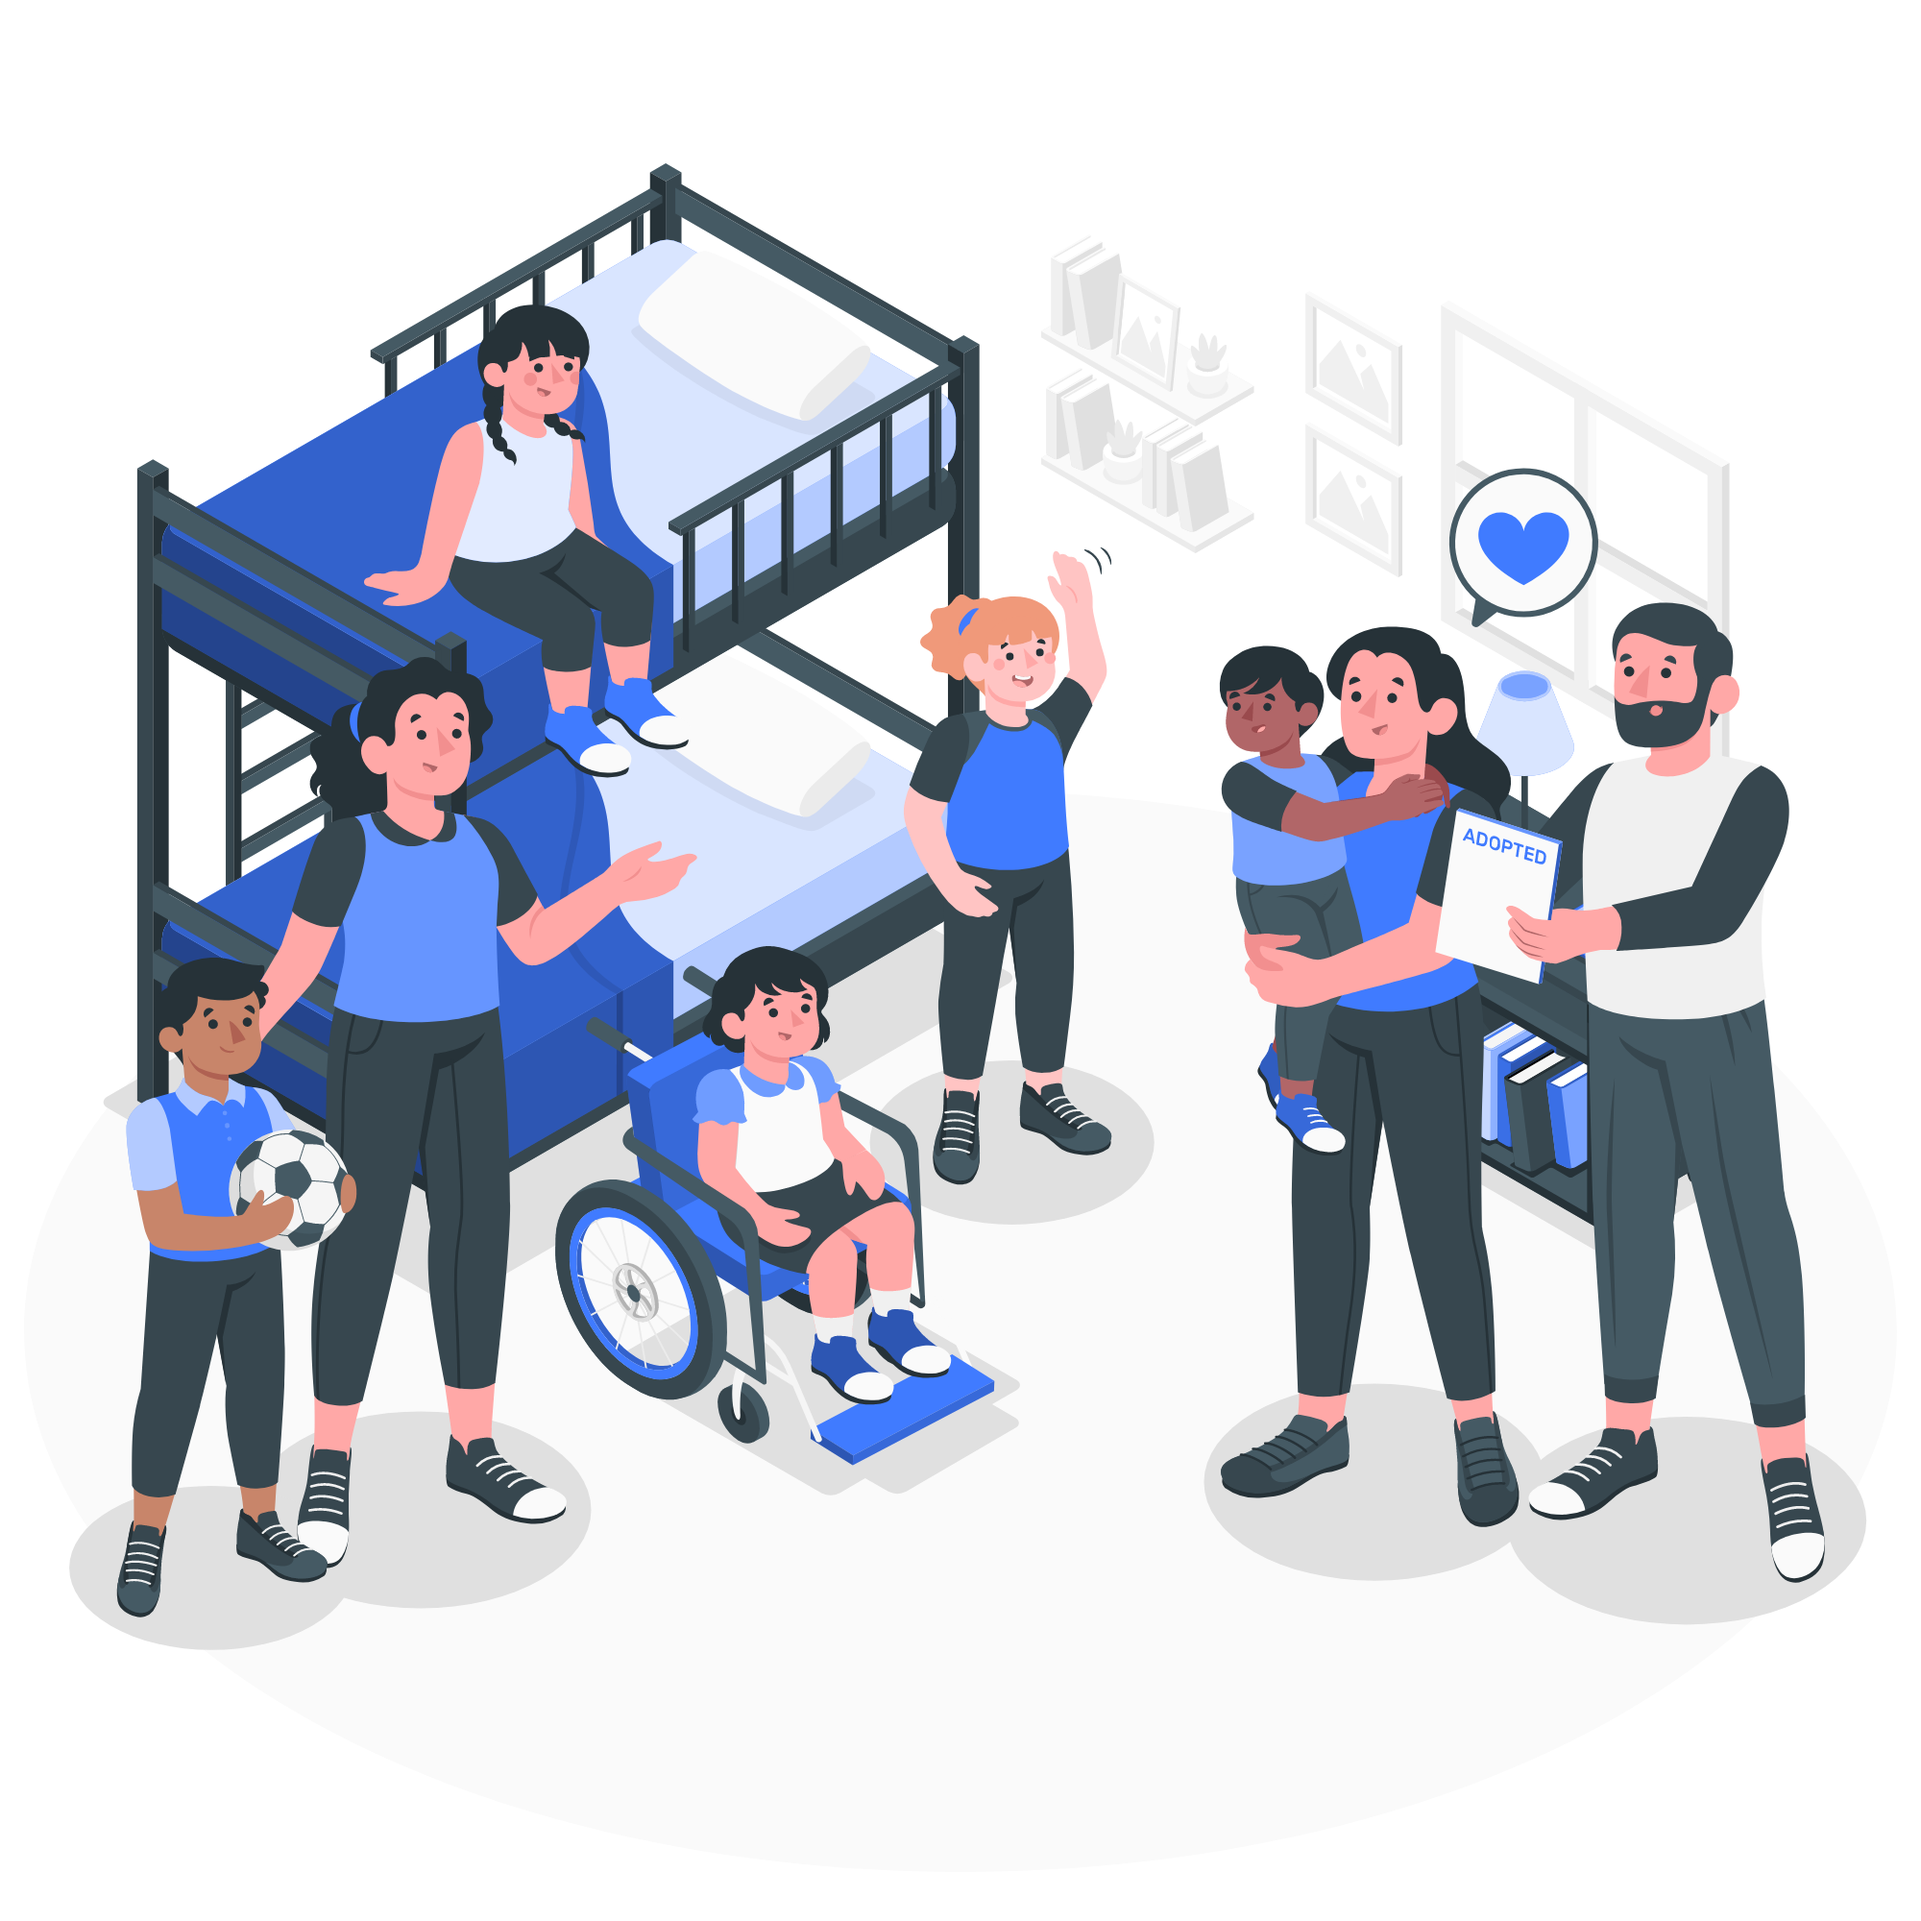
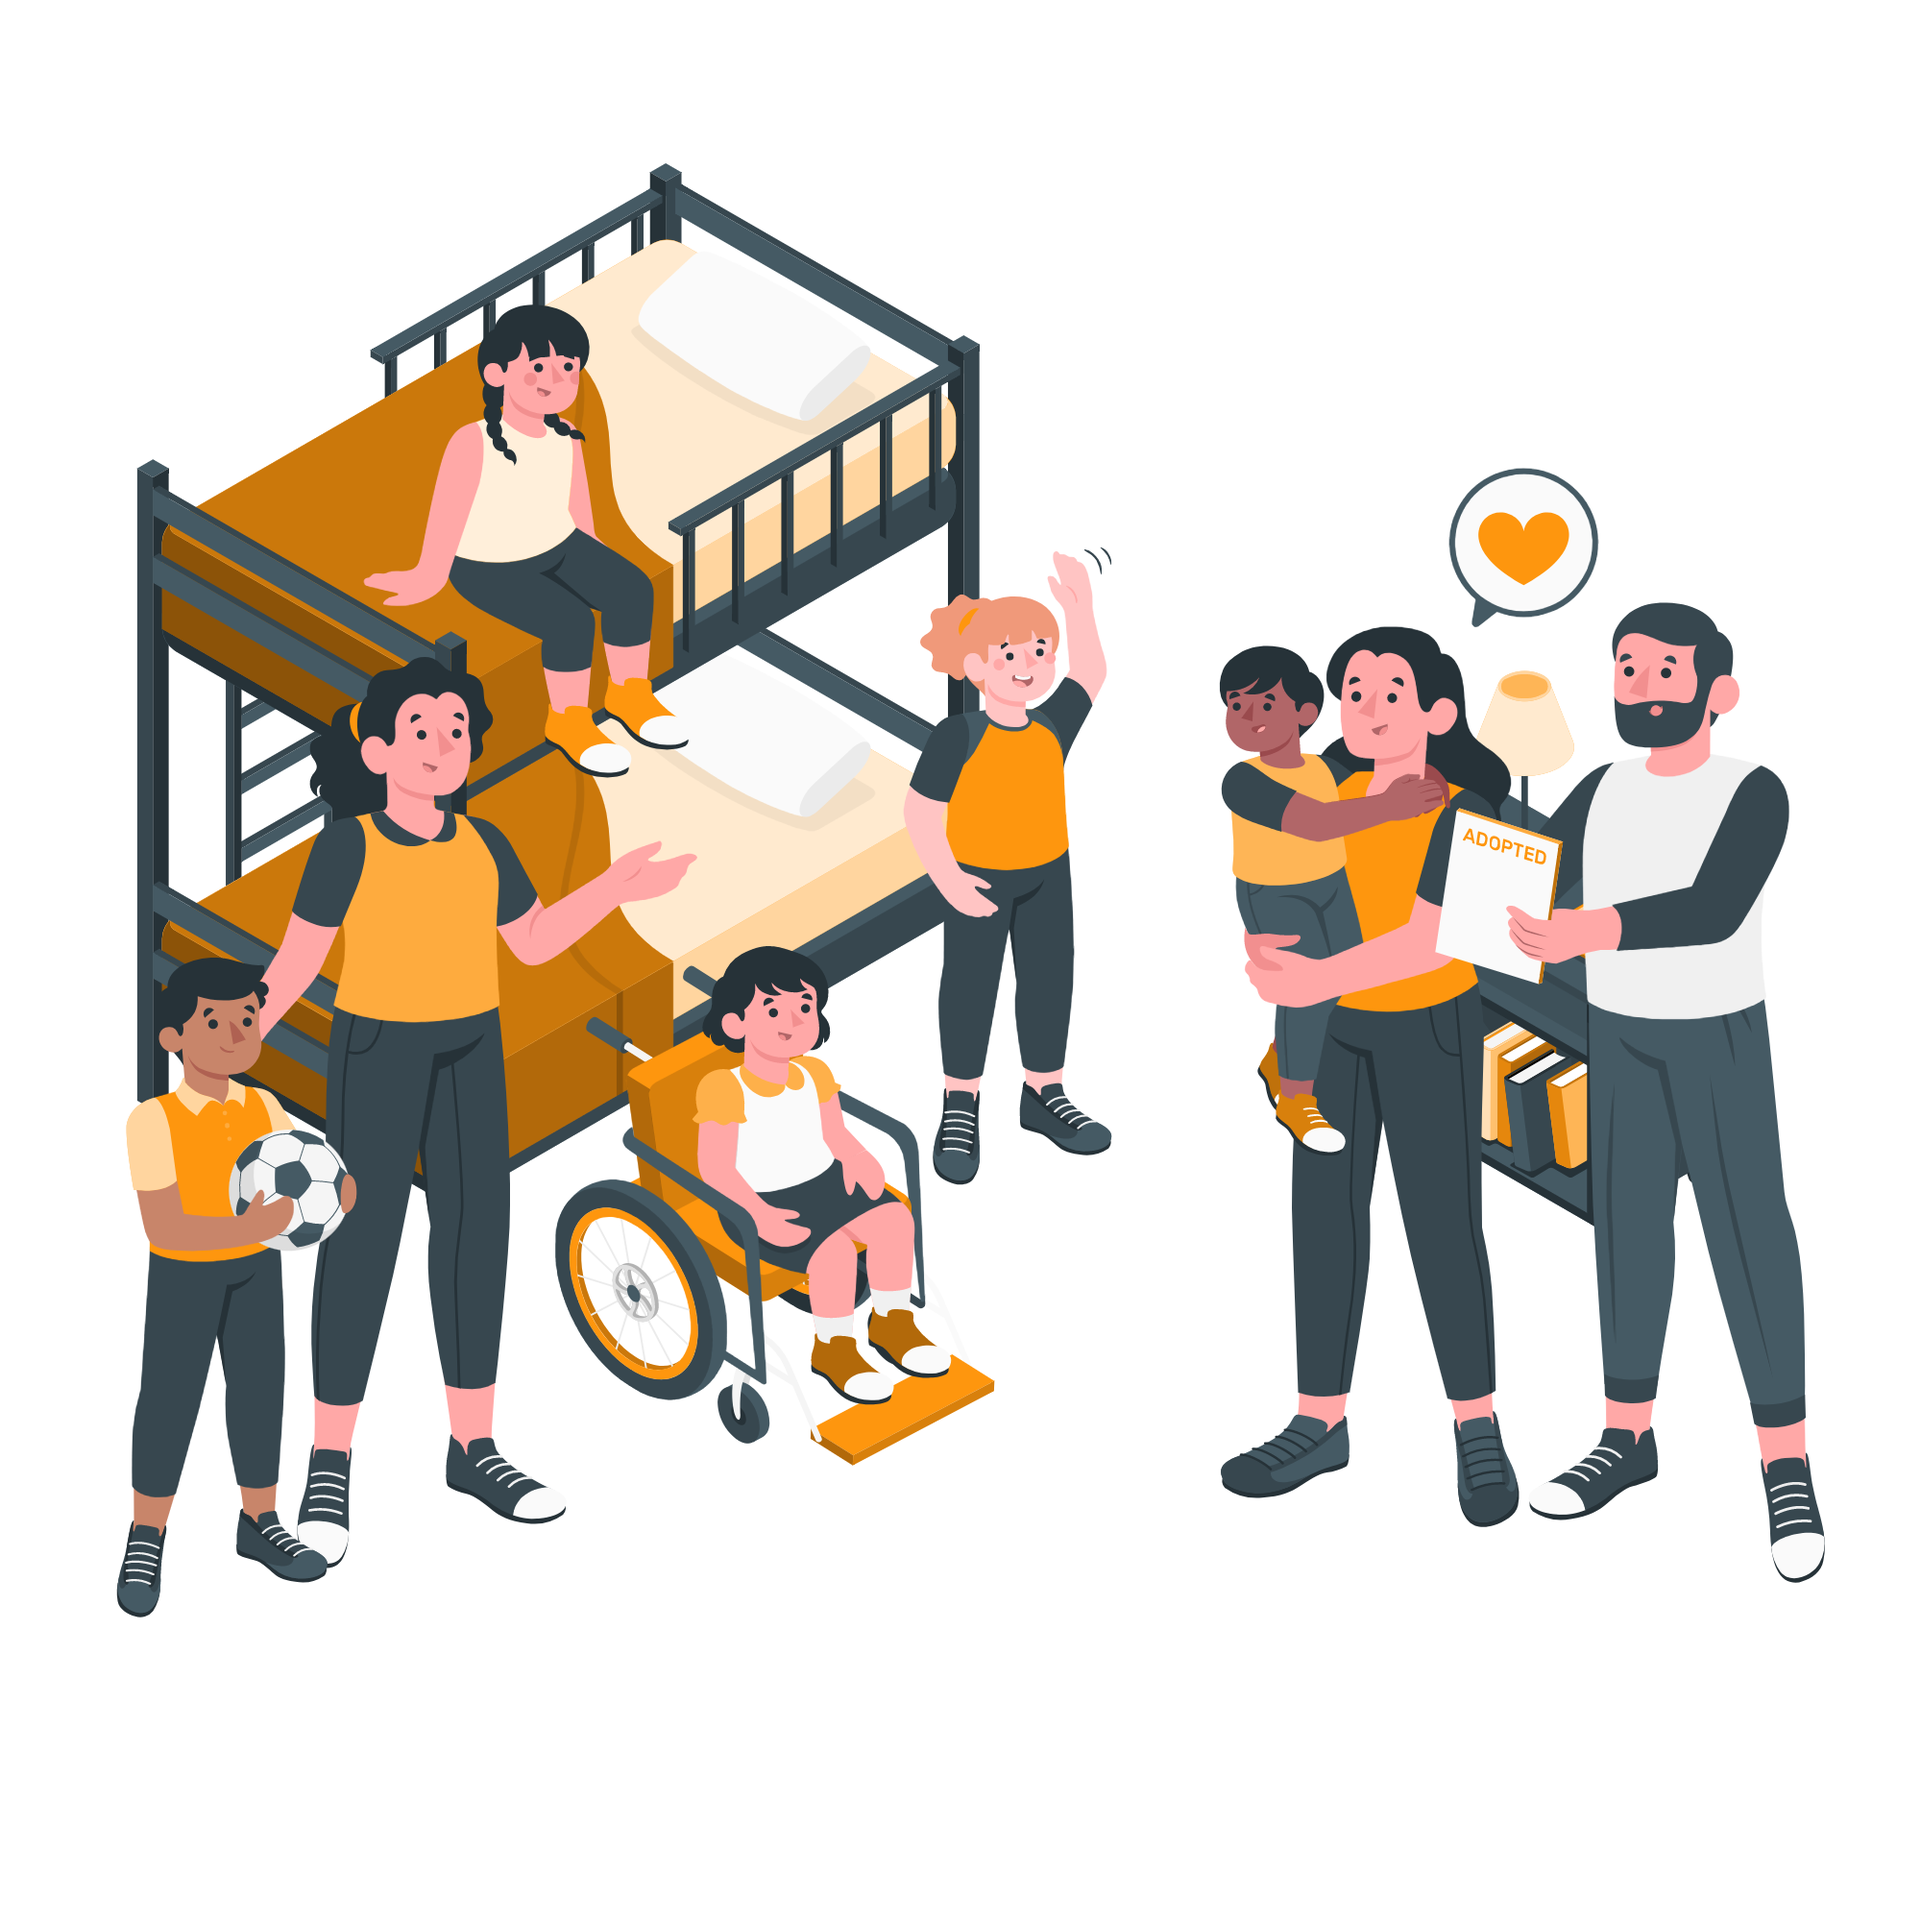
some style changes

diff --git a/pages/signin.tsx b/pages/signin.tsx
@@ -66,17 +66,11 @@ function signin() {
 
       <PageHeader title={'sign in'} />
 
-      <h1 className={styles.title}>VendSpace</h1>
+      <h1 className={styles.title}>VENDSPACE</h1>
       <p className={styles.subtitle}>
-        We help you sell to the people you trust
+        A simple user interface to sell to your community
       </p>
-      <Image
-        src='/hero.png'
-        alt='hero'
-        className={styles.hero}
-        width={400}
-        height={400}
-      />
+      <img src='/hero.png' alt='hero' className={styles.hero} />
       <button className={styles.googleButton} onClick={handleGoogleSignIn}>
         <img
           className={styles.googleImg}

diff --git a/components/all/StyledButton/StyledButton.module.scss b/components/all/StyledButton/StyledButton.module.scss
@@ -4,12 +4,16 @@
   width: 100%;
   text-align: center;
   border: 0;
-  border-radius: 180px;
+  border-radius: 5px;
   background-color: $colorA;
   color: white;
   font-size: 1.2rem;
-  font-weight: bold;
+  font-weight: 500;
   padding: 0.5rem;
+  -webkit-box-shadow: 5px 5px 0px 0px $colorAShadow,
+    5px 5px 11px 5px rgba(94, 117, 255, 0);
+  box-shadow: 5px 5px 0px 0px $colorAShadow,
+    5px 5px 11px 5px rgba(5, 43, 255, 0);
 }
 
 .alternative {

diff --git a/pages/SignInPage.module.scss b/pages/SignInPage.module.scss
@@ -9,7 +9,6 @@
 }
 
 .subtitle {
-  margin-top: 0.5rem;
 }
 
 .googleButton {
@@ -21,7 +20,9 @@
 }
 
 .hero {
+  margin-top: 1rem;
   width: calc(100% - 2 * $sidePadding);
+  aspect-ratio: 1;
 }
 
 .learnText {

diff --git a/styles/constants/colors.scss b/styles/constants/colors.scss
@@ -1,2 +1,3 @@
 $colorA: #fe960e;
+$colorAShadow: #b76700;
 $fadeGray: rgb(218, 218, 218);
